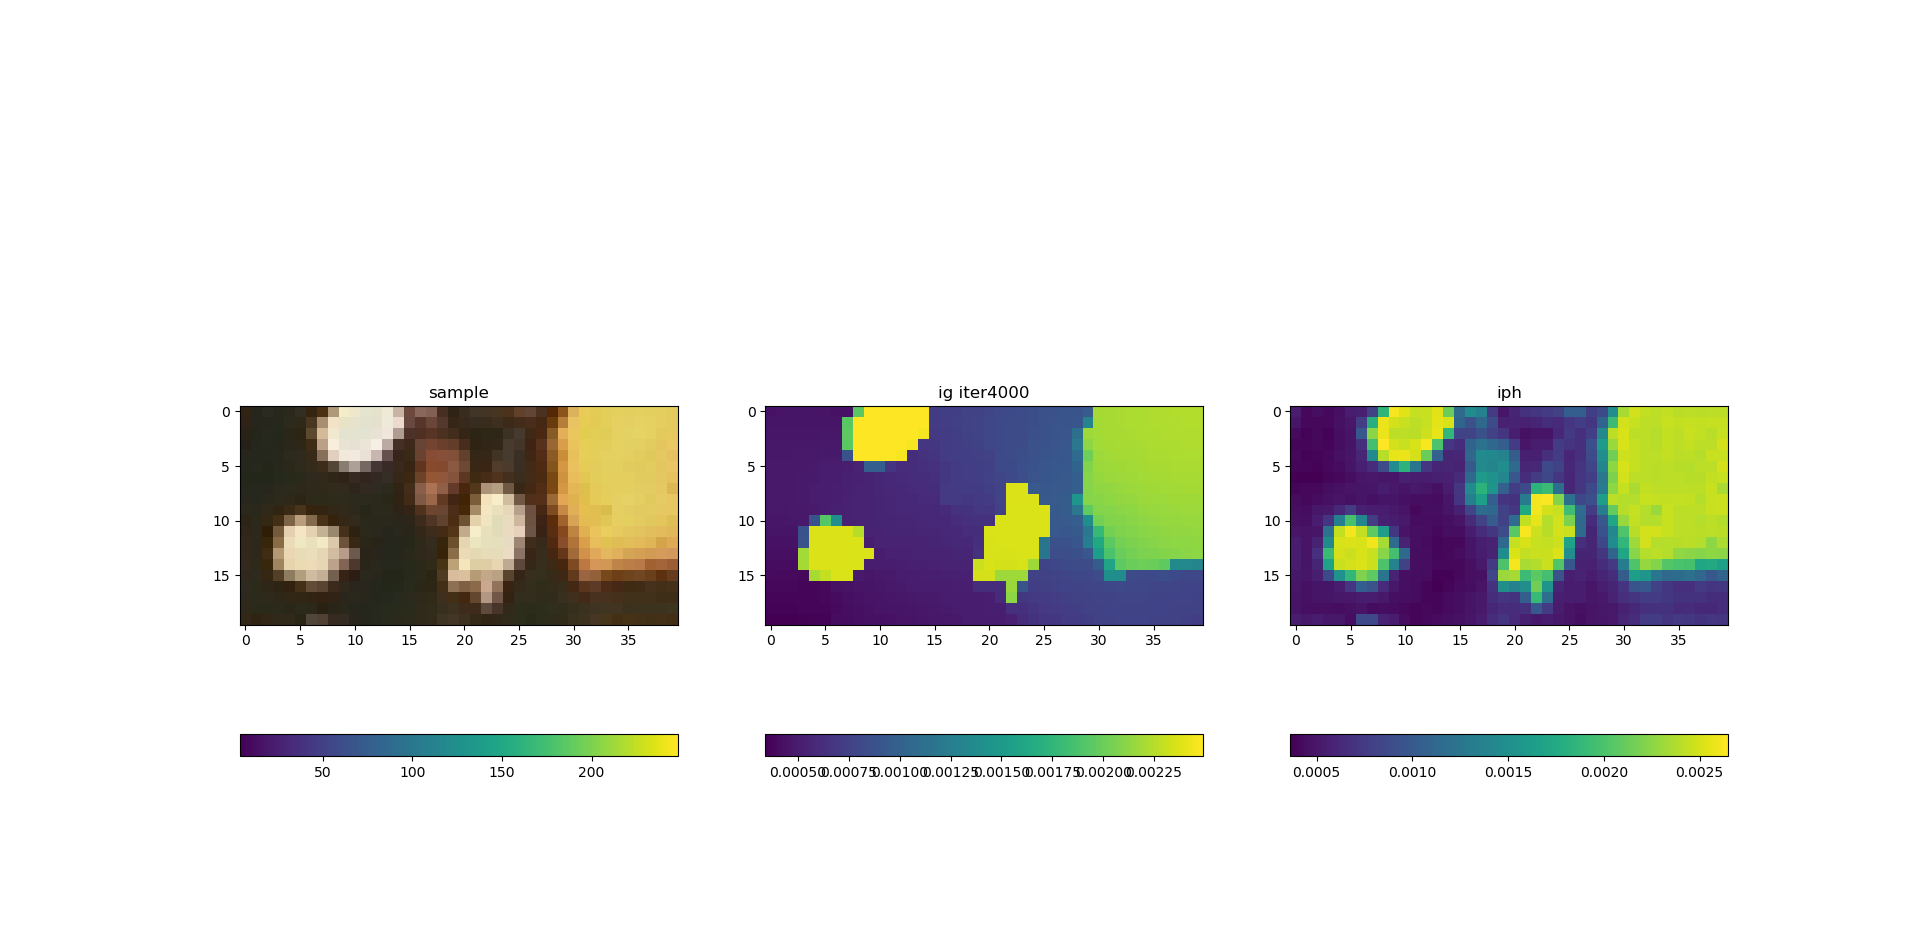
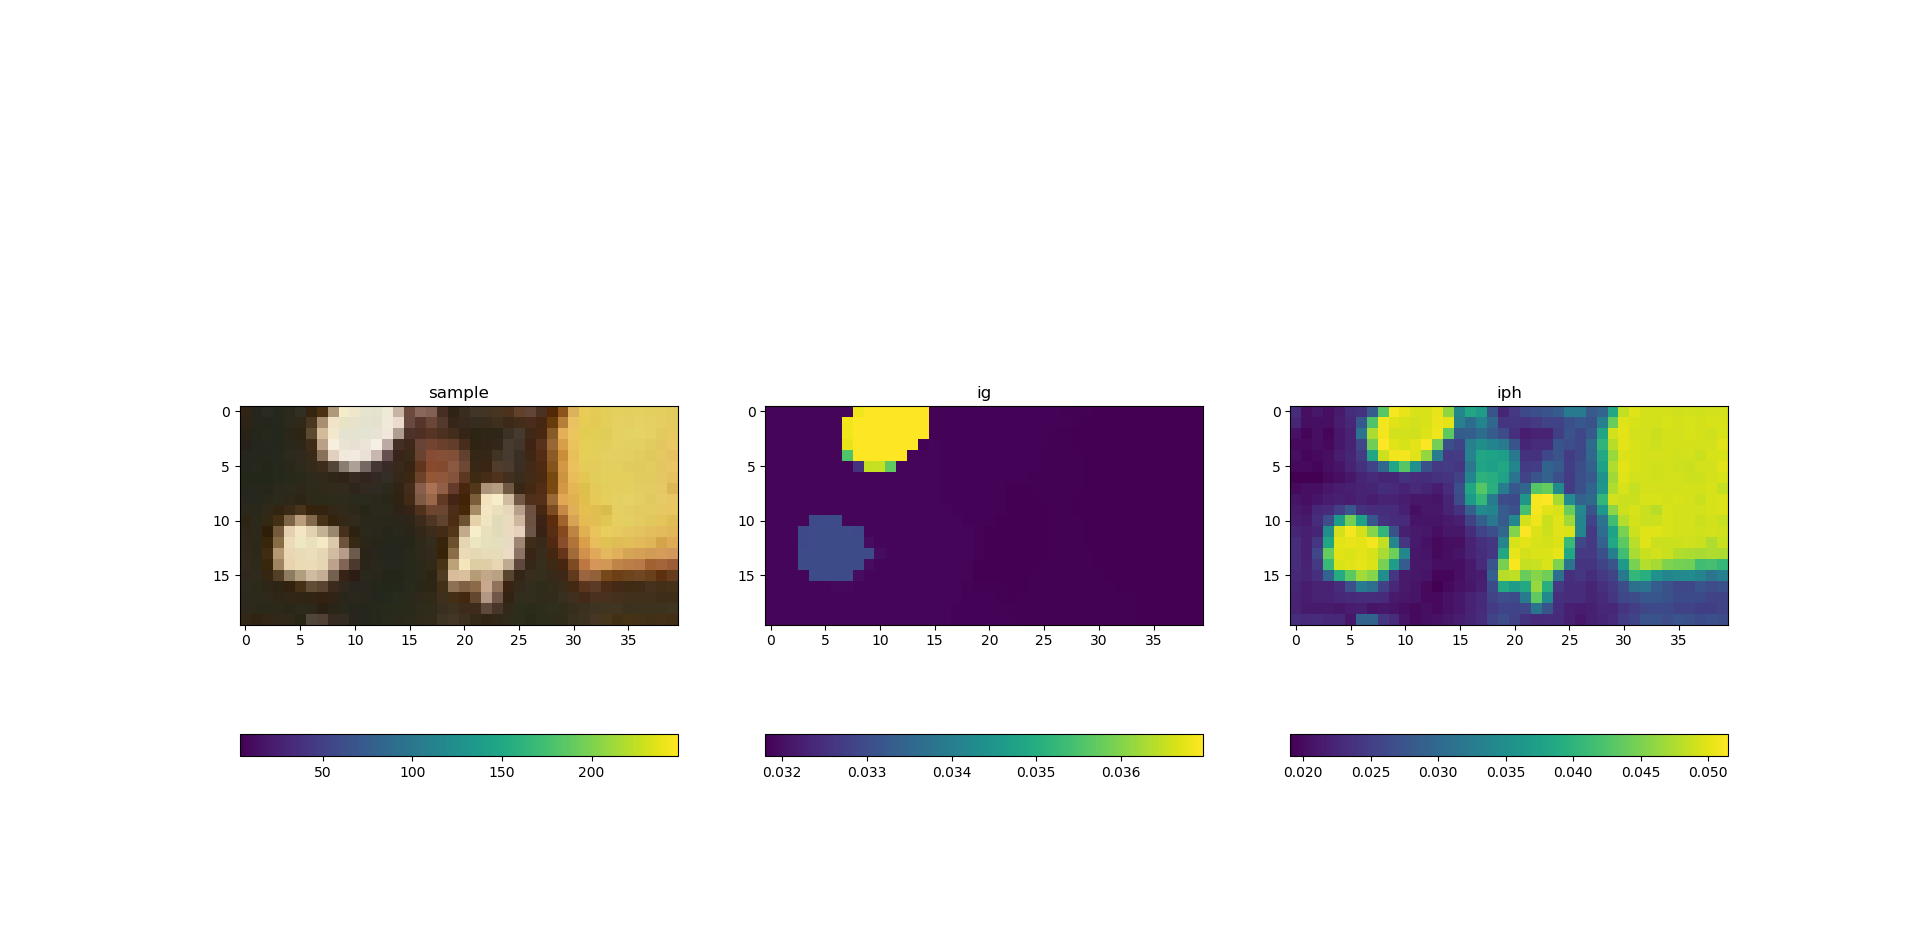
g

diff --git a/cluster-grad.py b/cluster-grad.py
@@ -5,6 +5,7 @@ from segment import edge_weight,grad_m
 import copy
 import os
 from time import gmtime, strftime
+from settings import logger,ZEROTH
 
 
 def msimg(img, ssig=1, rsig=None, mcont=5, init_wt=1):
@@ -13,11 +14,6 @@ def msimg(img, ssig=1, rsig=None, mcont=5, init_wt=1):
     I, J, K = img.shape
     pim = np.concatenate((np.zeros((1,J,K)), img, np.zeros((1,J,K))), axis=0) #padding
     pim = np.concatenate((np.zeros((I+2,1,K)), pim,np.zeros((I+2,1,K))), axis=1)
-    gamma = .9
-    alpha = .99
-    lamb = 1e-5
-    v = np.zeros((I+2,J+2,K))
-    Vp = 0
     if init_wt == 1:
         nint = 2
         # 1234:ESWN, Io: DHWC, D=8 directions
@@ -76,18 +72,7 @@ def msimg(img, ssig=1, rsig=None, mcont=5, init_wt=1):
         cur = Iok - Io
         fn = 'wt_rsig%f_%s' % (rsig, fn)
         with open('%s.npy' % fn, 'wb') as f:
-            np.save(f, np.hstack((w_E,w_S,w_SE,w_NE)))
-
-            # gloc=np.argmin(di[1:-1,1:-1])
-            # gloc = (gloc // (J - 2) + 1, gloc % (J - 2) + 1)
-            # print('gloc %d %d'%(gloc[0],gloc[1]))
-            # floc=np.argmin(wt[:,gloc[0],gloc[1]])
-            # floc=(gloc[0]+lij[floc][0],gloc[1]+lij[floc][1])
-            # print('floc %d %d'%(floc[0],floc[1]))
-            # fi = np.zeros((I,J,K))
-            # fi[floc[0],floc[1],:] = 1
-            # fi[gloc[0],gloc[1],:] = -1
-            # img[gloc[0],gloc[1],:]=0
+            np.save(f, np.stack((w_E,w_S,w_SE,w_NE)))
     else:
         fn = 'wt_rsig%f_%s' % (rsig, fn)
         a = rsig ** 2 / (K + 2)
@@ -98,77 +83,55 @@ def msimg(img, ssig=1, rsig=None, mcont=5, init_wt=1):
         w_N = np.vstack((np.zeros((1, J)), w_S[:-1, :,]))
         w_NW = np.hstack((np.zeros((I, 1)),np.vstack((np.zeros((1, J - 1)), w_SE[:-1,:-1]))))
         w_SW = np.hstack((np.zeros((I, 1)), np.vstack((w_NE[1:,:-1], np.zeros((1, J - 1))))))
+        di=np.sum(np.stack((w_E,w_S,w_SE,w_NE,w_W,w_N,w_NW,w_SW),0),0)
 
     def msiter(niter=1000):
-        nonlocal pim, v, Vp, w_E,w_S,w_SE,w_NE,w_W,w_N,w_NW,w_SW, cur
-        # wt[:,gloc[0],gloc[1]]=0
-        # wt[:,floc[0],floc[1]]=0
+        global ZEROTH
+        nonlocal pim,img, w_E,w_S,w_SE,w_NE,w_W,w_N,w_NW,w_SW
+        Io= (np.multiply(w_E.reshape(I,J,1), pim[1:-1, 2:, :])+np.multiply(w_S.reshape(I,J,1), pim[2:, 1:-1, :])+np.multiply(w_W.reshape(I,J,1), pim[1:-1, :J, :]) \
+                            + np.multiply( w_N.reshape(I,J,1), pim[:I, 1:-1, :])+np.multiply(w_SE.reshape(I,J,1), pim[2:, 2:, :])+np.multiply(w_NE.reshape(I,J,1), pim[:I, 2:, :] ) \
+                            + np.multiply( w_NW.reshape(I,J,1), pim[:I, :J, :]) + np.multiply(w_SW.reshape(I,J,1), pim[2:, :J, :]))/di.reshape((I, J, 1))
+
+        gp = Io - pim[1:-1,1:-1,:]
+        logger.info('gp %f %f'%(np.mean(gp),np.max(abs(gp))))
+        img+= gp
+        pgp = np.concatenate((np.zeros((1,J,K)), gp, np.zeros((1,J,K))), axis=0) #padding
+        pgp = np.concatenate((np.zeros((I+2,1,K)), pgp,np.zeros((I+2,1,K))), axis=1)
         for i in range(niter):
-            Io = (np.multiply(w_E.reshape(I,J,1), pim[1:-1, 2:, :]+ gamma * v[1:-1, 2:, :]) + np.multiply(w_S.reshape(I,J,1), pim[2:, 1:-1, :]+ gamma * v[2:, 1:-1, :]) + np.multiply(w_W.reshape(I,J,1), pim[1:-1, :J, :]+ gamma * v[1:-1, :J, :]) \
-                  + np.multiply( w_N.reshape(I,J,1), pim[:I, 1:-1, :]+ gamma * v[:I, 1:-1, :]) + np.multiply(w_SE.reshape(I,J,1), pim[2:, 2:, :]+ gamma * v[2:, 2:, :]) + np.multiply(w_NE.reshape(I,J,1), pim[:I, 2:, :]+ gamma * v[:I, 2:, :]) \
-                  + np.multiply( w_NW.reshape(I,J,1), pim[:I, :J, :]+ gamma * v[:I, :J, :]) + np.multiply(w_SW.reshape(I,J,1), pim[2:, :J, :]+ gamma * v[2:, :J, :]))/di.reshape((I, J, 1))
-            # gp = Io - (img + gamma * v[1:-1,1:-1,:])
-            gp = Io - (pim + gamma * v)[1:-1,1:-1,:]
-            Vp = alpha * Vp + (1 - alpha) * gp ** 2
-            Gp = 1 / (lamb + np.sqrt(Vp))
-            v[1:-1,1:-1,:] = gamma * v[1:-1,1:-1,:] + a * (np.multiply(Gp, gp) + cur)
-            pim += v
-            # c=np.sum(np.multiply(img,di.reshape((I,J,1))),axis=(0,1))
-            # img-=c.reshape((1,1,K))/(I*J)/di.reshape((I,J,1))
-            # c=np.sum(np.multiply(img**2,di.reshape((I,J,1))),axis=(0,1))
-            # img/=(c**(1/2)).reshape((1,1,K))
+            pgp[1:-1,1:-1,:] = (np.multiply(w_E.reshape(I,J,1), pgp[1:-1, 2:, :])+np.multiply(w_S.reshape(I,J,1), pgp[2:, 1:-1, :])+np.multiply(w_W.reshape(I,J,1), pgp[1:-1, :J, :]) \
+                  + np.multiply( w_N.reshape(I,J,1), pgp[:I, 1:-1, :])+np.multiply(w_SE.reshape(I,J,1), pgp[2:, 2:, :])+np.multiply(w_NE.reshape(I,J,1), pgp[:I, 2:, :] ) \
+                  + np.multiply( w_NW.reshape(I,J,1), pgp[:I, :J, :]) + np.multiply(w_SW.reshape(I,J,1), pgp[2:, :J, :]))/di.reshape((I, J, 1))
 
-    def msconti(ncont=0, mcont=12):
-        nonlocal pim
-        imgc = copy.deepcopy(pim)
-        msiter(10)
-        if np.array_equal(np.round(np.exp(pim),8),np.round(np.exp(imgc),8)):
-        # ginf=1e-12
-        # if np.sum(np.square((pim-imgc)[1:-1,1:-1,:]))<ginf:
-            print('fix found continue iter %d' % (ncont * 1000))
-            print(np.round(pim[:10, :10, 0], 6))
-            print(np.round(v[1:-1, 1:-1, 0], 6))
-            # print('ground ',pim[gloc[0],gloc[1],:])
-            return
-        else:
-            if ncont == mcont:
-                print('no fix after continue iter %d' % (ncont * 1000))
-                print(np.round(pim[:10, :10, 0], 6))
-                print(np.round(imgc[:10, :10, 0], 6))
-                # print('ground ',img[gloc[0],gloc[1],:])
-                # print(np.round(np.exp(img[:10,:10,0]), 6))
-                # print(np.round(np.exp(imgc[:10,:10,0]), 6))
-                return
-            print('continue')
-            ncont += 1
-            msiter(niter=1000)
-            msconti(ncont, mcont)
+            # pgp[1:-1,1:-1,:] =pgp[1:-1,1:-1,:]+ (Io - pgp[1:-1,1:-1,:])
+            img+= pgp[1:-1,1:-1,:]
+            if np.max(abs(pgp[1:-1,1:-1,:]))<ZEROTH:
+                logger.info('iter%d gp=0'%i)
+                break
+        print('end%d gp %f %f'%(i,np.mean(pgp),np.max(abs(pgp))))
+        return img
 
-    msiter()
-    msconti(mcont=mcont)
-    return pim[1:-1,1:-1,:]
-    # return img
+    img=msiter(1000*mcont)
+    return img
 
 
 if __name__ == "__main__":
-    # lij=((0,1),(1,0),(0,-1),(-1,0),(1,1),(1,-1),(-1,-1),(-1,1))
+    lij=((0,1),(1,0),(0,-1),(-1,0),(1,1),(1,-1),(-1,-1),(-1,1))
 
     # with open('imgs/tri_part','rb') as f:
     #     im=np.load(f)
-    # # im=im[8:18,1:11]
-    # im=im[4:14,5:15]
+    # # im=im[4:14,5:15]
     # # iph=im.reshape((*im.shape,1))
     # iph=(im/np.sum(im)).reshape((*im.shape,1))
     # iph=np.sqrt(iph).reshape((*im.shape,1))
-    # # iph=np.log(iph).reshape((*im.shape,1))
 
     data_path = os.path.join(os.getcwd(), 'photos')
     im_flist = os.listdir(data_path)
     im_no = 3
     im = mpimg.imread(os.path.join(data_path, im_flist[im_no]))
     # im=im[110:150,140:190,:]
+    # im = im[180:280, 100:150, :]
+    # im= im[400:440, 610:650, :]
     im = im[40:60, 10:50, :]
-    # im=im[40:80,10:60,:]
     ime = np.einsum('ijk->k', im.astype('uint32')).reshape(1, 1, im.shape[2])
     iph = im / ime
     # iph[iph == 0] = .0000001 / np.sum(ime)
@@ -176,8 +139,8 @@ if __name__ == "__main__":
 
     I, J, K = iph.shape
     l = np.arange(I * J).reshape(I, J)
-    ig = msimg(copy.deepcopy(iph), mcont=1)
-    # ig=msimg(copy.deepcopy(iph),rsig=.1,mcont=4)
+    # ig = msimg(iph, mcont=4)
+    ig=msimg(copy.deepcopy(iph),mcont=2)
     # ig=msimg(ig,rsig=.08)
 
     # blabels=np.zeros((I,J,6))
@@ -204,5 +167,6 @@ if __name__ == "__main__":
     plt.imshow(iph[:, :, 0])
     ax.set_title('iph')
     plt.colorbar(orientation='horizontal')
+
 
     plt.show()
